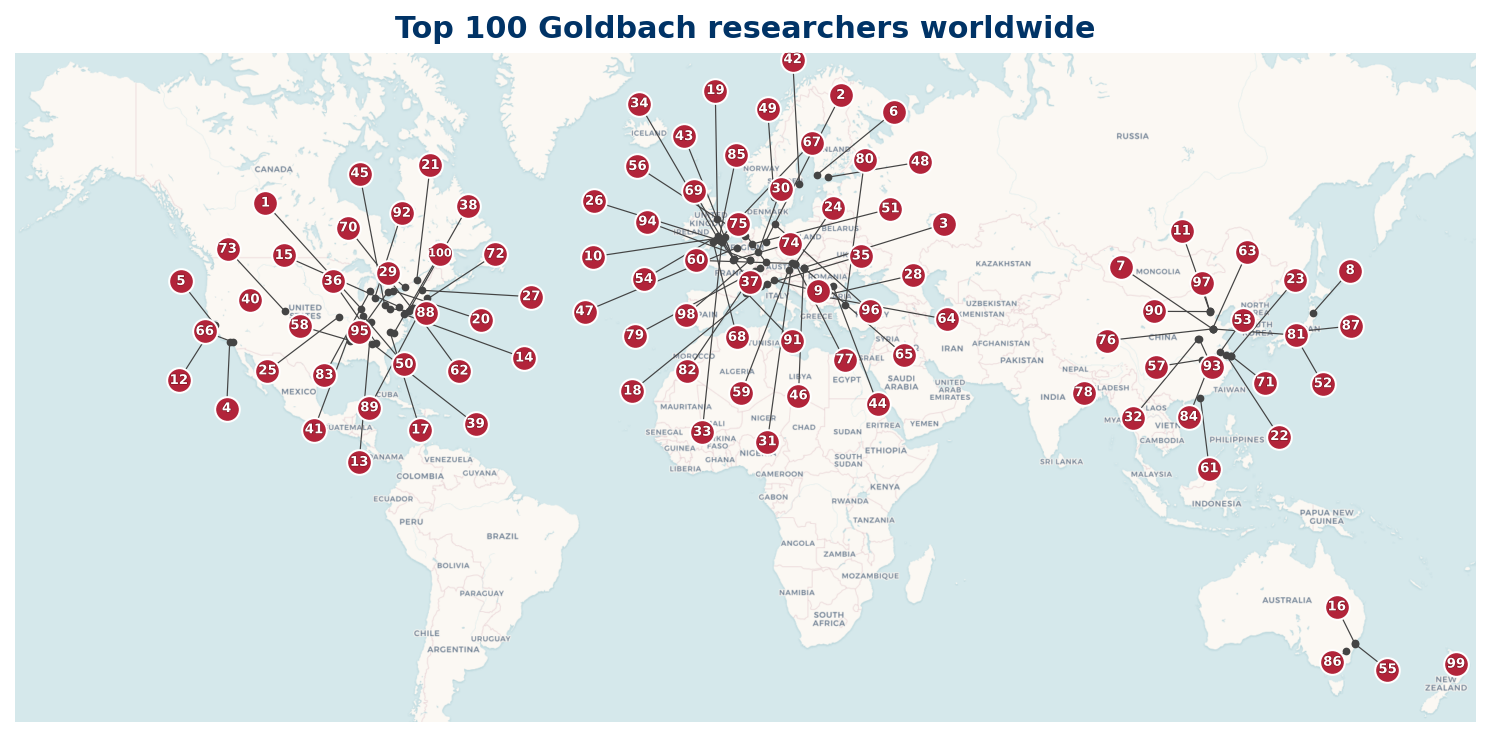
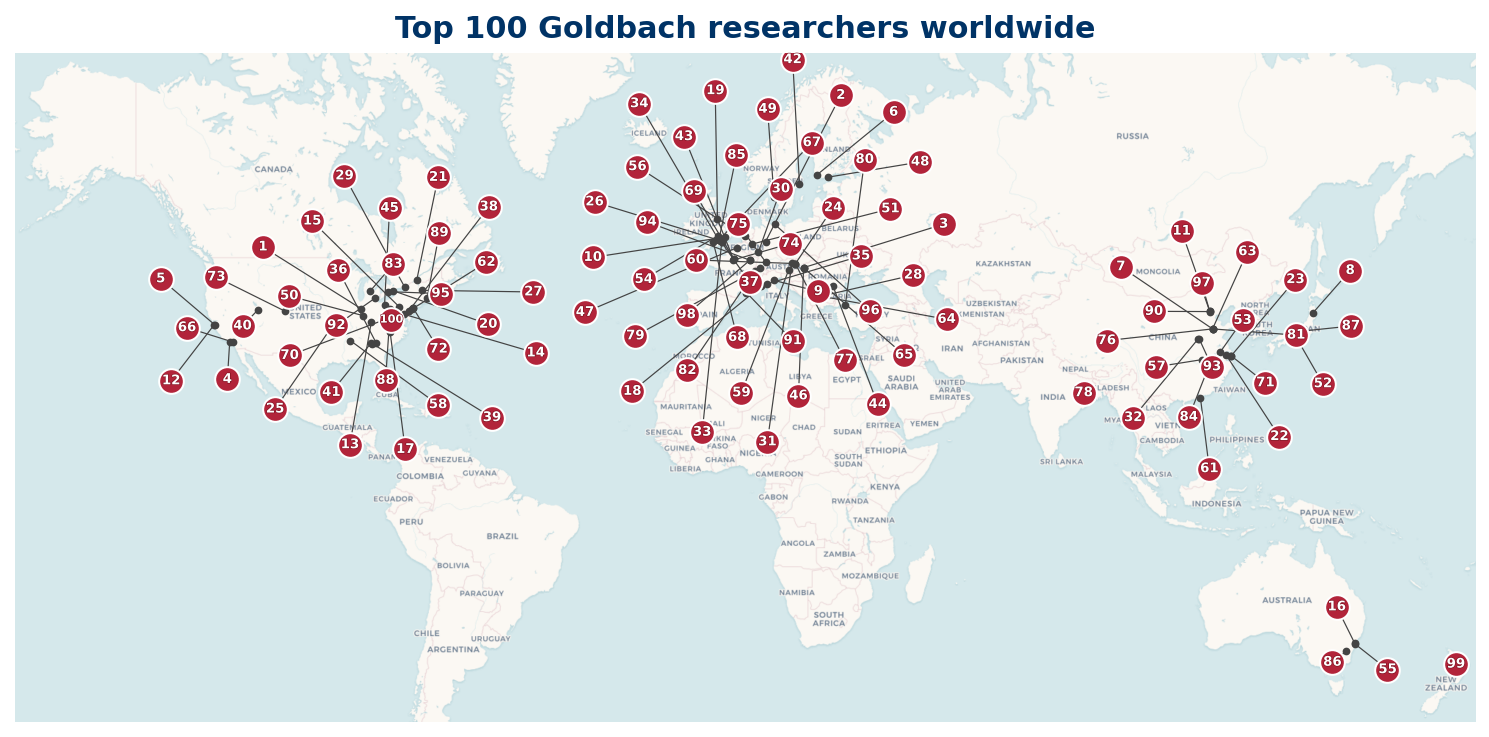
Chan: correct affiliation to Kennesaw State (moved from Memphis), update maps

diff --git a/_site/top100.html b/_site/top100.html
@@ -84,7 +84,7 @@
 <tr><td>38</td><td><a href="people/scott-t-parsell.html">Scott T. Parsell</a></td><td>West Chester University</td><td>US</td><td data-order="56">[56]</td><td data-order="24">[24]</td><td data-order="27">27</td><td data-order="8">8</td><td>zb_only</td><td>1999</td><td>2023</td></tr>
 <tr><td>39</td><td><a href="people/greg-martin.html">Greg Martin</a></td><td>Emory University</td><td>US</td><td data-order="18">18</td><td data-order="42">[42]</td><td data-order="94">[94]</td><td data-order="17">17</td><td>arxiv_only</td><td>1997</td><td>2025</td></tr>
 <tr><td>40</td><td><a href="people/roger-baker.html">Roger Baker</a></td><td>Brigham Young University</td><td>US</td><td data-order="67">67</td><td data-order="124">124</td><td data-order="7">7</td><td data-order="34">34</td><td>all_three</td><td>2006</td><td>2022</td></tr>
-<tr><td>41</td><td><a href="people/tsz-ho-chan.html">Tsz Ho Chan</a></td><td>University of Memphis</td><td>US</td><td data-order="22">22</td><td data-order="44">[44]</td><td data-order="67">[67]</td><td data-order="8">8</td><td>arxiv_only</td><td>2002</td><td>2023</td></tr>
+<tr><td>41</td><td><a href="people/tsz-ho-chan.html">Tsz Ho Chan</a></td><td>Kennesaw State University</td><td>US</td><td data-order="22">22</td><td data-order="44">[44]</td><td data-order="67">[67]</td><td data-order="8">8</td><td>arxiv_only</td><td>2002</td><td>2023</td></tr>
 <tr><td>42</td><td><a href="people/matteo-bordignon.html">Matteo Bordignon</a></td><td>KTH Royal Institute of Technology</td><td>SE</td><td data-order="23">23</td><td data-order="44">[44]</td><td data-order="67">[67]</td><td data-order="13">13</td><td>arxiv_only</td><td>2019</td><td>2023</td></tr>
 <tr><td>43</td><td><a href="people/jeanmarc-deshouillers.html">Jean‐Marc Deshouillers</a></td><td>Centre National de la Recherche Scientifique</td><td>FR</td><td data-order="59">[59]</td><td data-order="68">68</td><td data-order="19">19</td><td data-order="16">16</td><td>oa+zb</td><td>1993</td><td>2025</td></tr>
 <tr><td>44</td><td><a href="people/alexandru-zaharescu.html">Alexandru Zaharescu</a></td><td>Romanian Academy</td><td>RO</td><td data-order="21">21</td><td data-order="56">[56]</td><td data-order="67">67</td><td data-order="31">31</td><td>arx+zb</td><td>2006</td><td>2025</td></tr>

diff --git a/_site/people/tsz-ho-chan.html b/_site/people/tsz-ho-chan.html
@@ -34,7 +34,7 @@
 <main>
 <p class="subtitle"><a href="../top100.html">&larr; Back to the Top 100</a></p>
 <h1>Tsz Ho Chan (#41)</h1>
-<p class="subtitle">University of Memphis (US)</p>
+<p class="subtitle">Kennesaw State University (US)</p>
 
 <table class="profile-table">
 <tbody>

diff --git a/gen_maps.py b/gen_maps.py
@@ -1,40 +1,103 @@
 #!/usr/bin/env python3
-"""gen_maps.py - regenerate the four region map PNGs for wwigr.org.
+"""gen_maps.py - regenerate the region map PNGs for wwigr.org.
 
-Plots the living Top 100 as numbered bubbles (the number is the Top 100
-rank) on a tiled CartoDB basemap. A faint connector ties each bubble to
-the researcher's true institution location when declutter moved it.
+Plots the living Top 100 as numbered red bubbles (the number is the Top
+100 rank) on a tiled CartoDB Voyager basemap. The basemap carries crisp
+coastlines, country borders, and country/city name labels. A faint
+connector ties each bubble back to its true institution location when the
+declutter step had to move the bubble.
 
-Usage:  python gen_maps.py          generate all four maps
-        python gen_maps.py 0|1|2|3  generate one map (world/NA/EU/Asia)
+The basemap tiles are fetched from CartoDB (public, no key) and cached on
+disk under out/cache/tiles/. The Web Mercator projection of the tiles is
+preserved exactly: bubbles are placed in the same global-pixel coordinate
+system as the stitched tiles, and the axis uses equal aspect, so there is
+no horizontal/vertical skew.
+
+Usage:  python gen_maps.py            generate all maps
+        python gen_maps.py 0|1|2|3    generate one map (world/NA/EU/Asia)
 
 Output: _site/img/10_top100_overview.png and 11/12/13 regional PNGs.
 """
-import csv, glob, math, sys
+import csv, glob, io, math, os, sys, time, urllib.request
 import matplotlib
 matplotlib.use("Agg")
 import matplotlib.pyplot as plt
 import matplotlib.patheffects as pe
 from pathlib import Path
+from PIL import Image
 
 ROOT = Path(__file__).resolve().parent
-SITE = ROOT / "_site"
+SITE = Path(os.environ.get("WWIGR_SITE", ROOT / "_site"))
 UP = ROOT.parent
 DOT = "#b2243a"
-MANUAL_GEO = {"university of waikato": (-37.788, 175.317)}
-R_EARTH = 6378137.0
+MANUAL_GEO = {"university of waikato": (-37.788, 175.317),
+              "kennesaw state university": (33.9396, -84.5197)}
+TILE = 256
+TILE_CACHE = UP / "out" / "cache" / "tiles"
+TILE_STYLE = "rastertiles/voyager"       # CartoDB Voyager: borders + labels
+TILE_SUBDOMAINS = ("a", "b", "c", "d")
+USER_AGENT = "wwigr-map-builder/1.0 (admin@wwigr.org)"
 
 
 def norm(s):
     return " ".join((s or "").strip().lower().split())
 
 
-def merc(lat, lon):
-    lat = max(min(lat, 85.0), -85.0)
-    return (math.radians(lon) * R_EARTH,
-            math.log(math.tan(math.pi / 4 + math.radians(lat) / 2)) * R_EARTH)
+# ---- Web Mercator global-pixel helpers (slippy-tile convention) -------------
+def lonlat_to_px(lon, lat, z):
+    """Global pixel coords at zoom z. y increases southward (tile convention)."""
+    n = float(2 ** z)
+    lat = max(min(lat, 85.05112878), -85.05112878)
+    latr = math.radians(lat)
+    x = (lon + 180.0) / 360.0 * n * TILE
+    y = (1.0 - math.log(math.tan(latr) + 1.0 / math.cos(latr)) / math.pi) / 2.0 * n * TILE
+    return x, y
 
 
+def _fetch_tile(z, x, y):
+    n = 2 ** z
+    if not (0 <= x < n and 0 <= y < n):
+        return Image.new("RGB", (TILE, TILE), (255, 255, 255))
+    TILE_CACHE.mkdir(parents=True, exist_ok=True)
+    cache = TILE_CACHE / f"{TILE_STYLE.replace('/', '_')}_{z}_{x}_{y}.png"
+    if cache.exists():
+        return Image.open(cache).convert("RGB")
+    sub = TILE_SUBDOMAINS[(x + y) % len(TILE_SUBDOMAINS)]
+    url = f"https://{sub}.basemaps.cartocdn.com/{TILE_STYLE}/{z}/{x}/{y}.png"
+    last = None
+    for attempt in range(4):
+        try:
+            req = urllib.request.Request(url, headers={"User-Agent": USER_AGENT})
+            data = urllib.request.urlopen(req, timeout=20).read()
+            cache.write_bytes(data)
+            return Image.open(io.BytesIO(data)).convert("RGB")
+        except Exception as e:                       # noqa: BLE001
+            last = e
+            time.sleep(0.6 * (attempt + 1))
+    print(f"    tile {z}/{x}/{y} failed: {last}")
+    return Image.new("RGB", (TILE, TILE), (255, 255, 255))
+
+
+def basemap(lon0, lon1, lat0, lat1, z):
+    """Return (PIL image, (px_left, px_top, px_right, px_bottom)) for the bbox."""
+    x_left, y_top = lonlat_to_px(lon0, lat1, z)      # NW corner
+    x_right, y_bot = lonlat_to_px(lon1, lat0, z)     # SE corner
+    tx0, tx1 = int(x_left // TILE), int(x_right // TILE)
+    ty0, ty1 = int(y_top // TILE), int(y_bot // TILE)
+    W = (tx1 - tx0 + 1) * TILE
+    H = (ty1 - ty0 + 1) * TILE
+    canvas = Image.new("RGB", (W, H), (255, 255, 255))
+    for tx in range(tx0, tx1 + 1):
+        for ty in range(ty0, ty1 + 1):
+            canvas.paste(_fetch_tile(z, tx, ty), ((tx - tx0) * TILE, (ty - ty0) * TILE))
+    ox, oy = tx0 * TILE, ty0 * TILE
+    crop = (int(round(x_left - ox)), int(round(y_top - oy)),
+            int(round(x_right - ox)), int(round(y_bot - oy)))
+    img = canvas.crop(crop)
+    return img, (x_left, y_top, x_right, y_bot)
+
+
+# ---- data loading -----------------------------------------------------------
 def load_living():
     rows = []
     for pat in ("out/gb_top100_*.csv", "out/gb_next100_*.csv"):
@@ -78,7 +141,7 @@ def load_geo():
     return geo
 
 
-def declutter(pos, min_sep, iters=110):
+def declutter(pos, min_sep, iters=140):
     n = len(pos)
     for _ in range(iters):
         for i in range(n):
@@ -98,54 +161,34 @@ def declutter(pos, min_sep, iters=110):
                 pos[j][1] += uy * push
 
 
-import json as _json
-_WORLD=None
-def _world_rings():
-    global _WORLD
-    if _WORLD is None:
-        d=_json.load(open(ROOT/"world_110m.geojson",encoding="utf-8"))
-        rings=[]
-        for ft in d.get("features",[]):
-            g=ft.get("geometry") or {}; t=g.get("type"); co=g.get("coordinates")
-            if t=="Polygon": polys=[co]
-            elif t=="MultiPolygon": polys=co
-            else: continue
-            for poly in polys:
-                if poly: rings.append(poly[0])
-        _WORLD=rings
-    return _WORLD
-def _draw_borders(ax):
-    from matplotlib.patches import Polygon as _MplPoly
-    for ring in _world_rings():
-        xy=[merc(lat,lon) for lon,lat in ring]
-        ax.add_patch(_MplPoly(xy,closed=True,facecolor="#eef2f5",
-                     edgecolor="#aab7c0",linewidth=0.4,zorder=0))
-
-
+# ---- drawing ----------------------------------------------------------------
 def draw(pts, extent, title, outpath, figsize, zoom):
     lon0, lon1, lat0, lat1 = extent
-    x0, y0 = merc(lat0, lon0)
-    x1, y1 = merc(lat1, lon1)
+    img, (px_l, px_t, px_r, px_b) = basemap(lon0, lon1, lat0, lat1, zoom)
+
     fig, ax = plt.subplots(figsize=figsize)
-    ax.set_xlim(x0, x1)
-    ax.set_ylim(y0, y1)
+    # data coords == global pixel coords; y inverted so north is up.
+    ax.imshow(img, extent=[px_l, px_r, px_b, px_t], origin="upper",
+              interpolation="bilinear", zorder=0)
+    ax.set_xlim(px_l, px_r)
+    ax.set_ylim(px_b, px_t)            # inverted (px_b > px_t): south at bottom
+    ax.set_aspect("equal")            # no skew
 
     inside = []
     for rank, lat, lon in pts:
-        x, y = merc(lat, lon)
-        if x0 <= x <= x1 and y0 <= y <= y1:
+        x, y = lonlat_to_px(lon, lat, zoom)
+        if px_l <= x <= px_r and px_t <= y <= px_b:
             inside.append((rank, x, y))
 
-    _draw_borders(ax)
-
+    span = px_r - px_l
     true_xy = [(x, y) for _, x, y in inside]
     label_xy = [[x, y] for _, x, y in inside]
-    declutter(label_xy, min_sep=(x1 - x0) * 0.040)
+    declutter(label_xy, min_sep=span * 0.038)
 
     for (tx, ty), (lx, ly) in zip(true_xy, label_xy):
-        if math.hypot(lx - tx, ly - ty) > (x1 - x0) * 0.012:
-            ax.plot([tx, lx], [ty, ly], color="#6b6b6b", lw=0.5, zorder=4)
-            ax.scatter([tx], [ty], s=9, c="#6b6b6b", zorder=4)
+        if math.hypot(lx - tx, ly - ty) > span * 0.012:
+            ax.plot([tx, lx], [ty, ly], color="#444444", lw=0.6, zorder=4)
+            ax.scatter([tx], [ty], s=8, c="#444444", zorder=4)
     ax.scatter([p[0] for p in label_xy], [p[1] for p in label_xy],
                s=150, c=DOT, edgecolors="white", linewidths=1.0, zorder=6)
     for (rank, _, _), (lx, ly) in zip(inside, label_xy):
@@ -154,8 +197,6 @@ def draw(pts, extent, title, outpath, figsize, zoom):
                     color="white", zorder=7)
         t.set_path_effects([pe.withStroke(linewidth=0.6, foreground="#7a0f1e")])
 
-    ax.set_xlim(x0, x1)
-    ax.set_ylim(y0, y1)
     ax.set_axis_off()
     ax.set_title(title, fontsize=15, color="#003366", fontweight="bold", pad=8)
     fig.savefig(outpath, dpi=145, bbox_inches="tight", facecolor="white")
@@ -163,6 +204,7 @@ def draw(pts, extent, title, outpath, figsize, zoom):
     print(f"  wrote {outpath.name}  ({len(inside)} numbered dots)")
 
 
+# ---- region definitions -----------------------------------------------------
 NA_COUNTRIES = {"US", "CA", "MX"}
 EU_COUNTRIES = {
     "AD","AL","AT","BA","BE","BG","BY","CH","CY","CZ","DE","DK","EE","ES",
@@ -175,17 +217,16 @@ AS_COUNTRIES = {
     "KH","KP","KR","KZ","LA","LK","MM","MN","MO","MV","MY","NP","NZ","PG",
     "PH","PK","SG","TH","TJ","TL","TM","TW","UZ","VN","FJ",
 }
-# 5th tuple slot is the country filter set (None = no filter / world view).
+# (extent lon0,lon1,lat0,lat1), title, filename, figsize, tile-zoom, country set
 MAPS = [
-    ((-165, 185, -50, 74), "Top 100 Goldbach researchers worldwide",
-     "10_top100_overview.png", (13, 6.6), 2, None),
+    ((-170, 180, -48, 72), "Top 100 Goldbach researchers worldwide",
+     "10_top100_overview.png", (13, 6.6), 3, None),
     ((-126, -62, 25, 52), "Top 100 researchers in North America",
      "11_top100_north_america.png", (11, 5.6), 4, NA_COUNTRIES),
-    ((-11, 38, 31, 63), "Top 100 researchers in Europe",
-     "12_top100_europe.png", (10, 7.0), 4, EU_COUNTRIES),
-    ((60, 182, -48, 47),
-     "Top 100 researchers in Asia and the Pacific",
-     "13_top100_asia.png", (13, 6.6), 3, AS_COUNTRIES),
+    ((-11, 38, 34, 62), "Top 100 researchers in Europe",
+     "12_top100_europe.png", (10, 7.0), 5, EU_COUNTRIES),
+    ((58, 180, -45, 56), "Top 100 researchers in Asia and the Pacific",
+     "13_top100_asia.png", (13, 6.6), 4, AS_COUNTRIES),
 ]
 
 
@@ -202,15 +243,11 @@ def main():
             missed.append(f"#{i} {r['name']}")
     print(f"living {len(living)}; geocoded {len(pts)}; missing {missed}")
     (SITE / "img").mkdir(parents=True, exist_ok=True)
-    which = ([int(sys.argv[1])] if len(sys.argv) > 1
-             else range(len(MAPS)))
-    named = NA_COUNTRIES | EU_COUNTRIES | AS_COUNTRIES
+    which = ([int(sys.argv[1])] if len(sys.argv) > 1 else range(len(MAPS)))
     for idx in which:
         extent, title, fn, figsize, zoom, cset = MAPS[idx]
         if cset is None:
             sub = [(r, lat, lon) for r, lat, lon, c in pts]
-        elif cset == "OTHER":
-            sub = [(r, lat, lon) for r, lat, lon, c in pts if c not in named]
         else:
             sub = [(r, lat, lon) for r, lat, lon, c in pts if c in cset]
         draw(sub, extent, title, SITE / "img" / fn, figsize, zoom)
